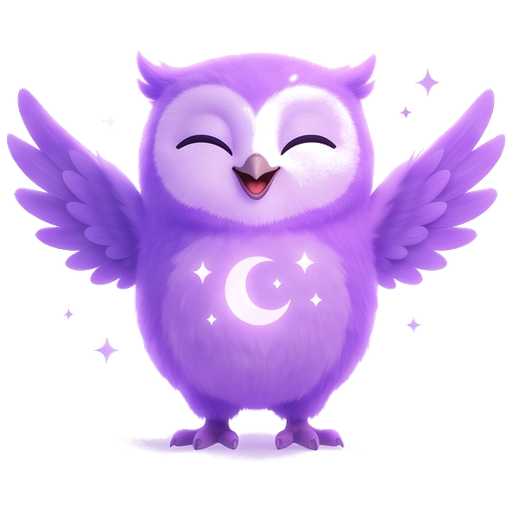
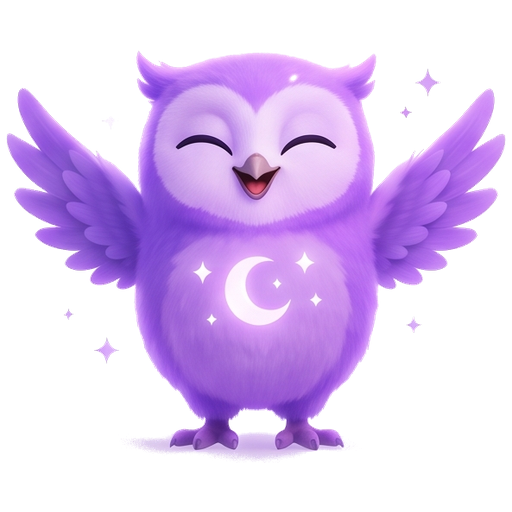
fix: stop Dusk's right eye going translucent in the thriving pose
The eye-socket region on dusk-5 is 5.36% of the figure, because the stage-5
glow enlarges the pale area around it. The cap on fillable enclosed regions
was 5%, so it was rejected by a hair and the socket kept its feathered alpha —
invisible on the light theme, a dark hole on the dark one.

Measured rather than guessed: the flood fill was ruled out first by sweeping
its conduction tolerance from 40 down to 8, which changed nothing, and the
component dump then showed the region being rejected on area alone.

The cap is now 12%. Height is what actually separates eyes from real gaps on
these sheets — every genuine gap measured sits outside the 15-80% band
(Sprout's leaf gap at 10%, foot gaps at 89-93%) while eyes sit at 20-55% — so
the area cap is only a safety net against filling a large structural hole and
belongs well clear of anything real.

Partial-alpha pixels in dusk-5's face drop from 4193 to 21. Every other image
is unchanged or better; the remainder everywhere is ordinary edge antialiasing.

Changed region(s): [[0.4688, 0.1562, 0.7188, 0.3438]]

diff --git a/scripts/process-character-sheets.py b/scripts/process-character-sheets.py
@@ -168,7 +168,16 @@ def reachable_background(is_backdrop: np.ndarray) -> np.ndarray:
 # gap reads further from the backdrop than its own eyes do), so position is
 # what the split is made on.
 FILL_BAND = (0.15, 0.80)
-FILL_MAX_AREA = 0.05  # of the figure; anything larger is structural, not an eye
+
+# Height does the real work: every genuine gap measured on these sheets sits
+# outside the band (Sprout's leaf gap at 10%, foot gaps at 89-93%), while eyes
+# sit at 20-55%. The area cap is only a safety net against filling a large
+# structural hole, so it is set well clear of anything real.
+#
+# It was 5% and that was too tight by a hair: the glow around Dusk's right eye
+# in the thriving pose makes that socket 5.36% of the figure, so it was
+# rejected and the eye came out translucent over the dark theme.
+FILL_MAX_AREA = 0.12
 
 
 def components(mask: np.ndarray) -> list[np.ndarray]:
